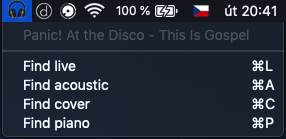
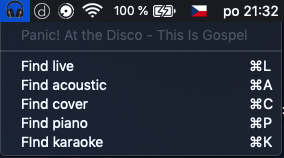
Update readme

diff --git a/readme.md b/readme.md
@@ -2,15 +2,15 @@
 
 ![songfinder](img/songfinder.png)
 
-Little tool for youtube search of live live/acoustic/cover versions of song you are currently listening to in **iTunes** or **Spotify**. Tested on macOS 10.14 with SWIFT5.
+Little tool for youtube search of live live/acoustic/cover/karaoke versions of song you are currently listening to in **iTunes** or **Spotify**. Tested on macOS 10.14 with SWIFT5.
 
-If you love music you know artists that makes incredible live performance of their songs. Lot of these masterpieces are available on YouTube, but not on iTunes or Spotify. Live, acoustic, piano or cover version could better fit to your taste. This tool can help you to find them easily and enjoy music in another way. ♥
+If you love music you know a lot of artists that makes incredible live performance of their songs. Lot of these masterpieces are available on YouTube, but not on iTunes or Spotify. Live, acoustic, piano or cover version could better fit to your taste. This tool can help you to find them easily and enjoy music in another way. ♥
 
 Songfinder came from previous CLI version called [findlive](https://github.com/martingabriel/findsonglive).
 
 ## Easy to use
 
-Songfinder can recognize what song are you currently listening to and it will open your default web browsers new tab with youtube search of currently playing song in your music player (iTunes or Spotify are supported now). You select version of search in menu by clicking the icon.
+Songfinder can recognize what song are you currently listening to and it will open your default web browsers new tab with youtube search of currently playing song in your music player (iTunes or Spotify are supported now). You can select keyword of search in menu by clicking the icon.
 
 ## Example
 
